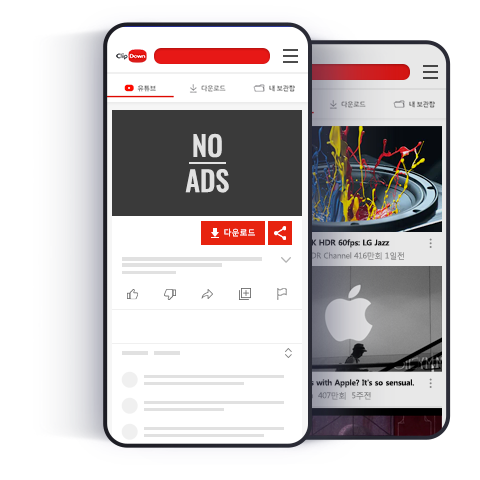
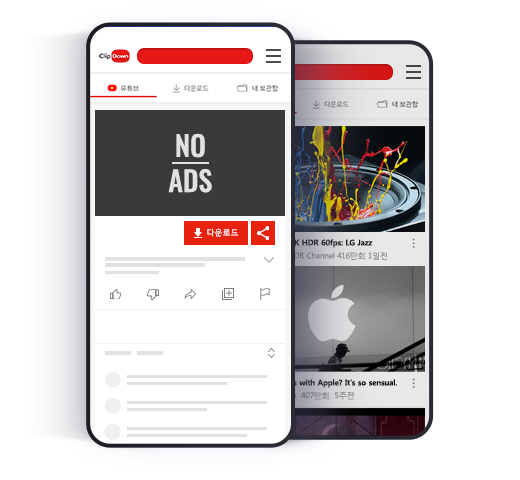
update

diff --git a/Clipdown/2021_Web_clipdown_renewal/resource/css/style.css b/Clipdown/2021_Web_clipdown_renewal/resource/css/style.css
@@ -174,19 +174,22 @@ transform: translateY(-15px);
 @media screen and (max-width: 767px){	
 .left_img, .right_img{width:70% !important; margin:0 auto;}
 .m-btn-box .btn-group .btn{display: block; float: none; width:240px; margin: 20px 0;}
-.m-btn-box{display: block; margin-top: 30px;}
+.m-btn-box{display: block; margin: 40px 0;}
 .header_title{font-size: 30px; font-size: 3.0rem;}
 .content-text{padding-bottom: 20px;}
 .content_info{margin: 50px 0; text-align: center;}
 .content_info .col-2{width:100%;}
 .intro-section, .uselist-section, .services-section, .contact-section, .notice-section{padding-top:75px;}
-.intro-section {height:780px}
-.intro-section .bg_01{width:70%; height: 780px; right: 0;}
+.intro-section {height:830px;}
+.intro-section .bg_01{width:70%; height: 830px; right: 0;}
 .intro-section .header_title{font-size: 40px; font-size: 4.0rem;}
-.intro-section .btn-box{display: none;}
+.intro-section .m_img_main_style, .intro-section .m_main_img{display: block;}
+.intro-section .m_img_main_style{width: 80% !important; margin: 0 auto;}
+.intro-section .m_main_img{margin: 0px auto;}
+.intro-section .img_main_style, .intro-section .btn-box{display: none;}
 .intro-section .header_title, .intro-section .btn-box{text-align: center; padding-left: 0;}
 .intro-section .left_text{padding: 30px 0;}
-.intro-section .m-btn-box .m_btn{margin: 40px 0; }
+
 .services-section .bg_02{top: 140%; left: -1170px;}
 .services-section .left_text, .services-section .right_text{text-align:center; margin: 20px 0; padding: 0;}
 .services-section .contents-mobile .left_img{float: initial;}
@@ -220,13 +223,15 @@ transform: translateY(-15px);
 .content-text{font-size: 13px; font-size: 1.3rem;}
 .btn-lg{min-height: 48px !important; font-size: 18px !important;}
 .btn-md{min-height: 34px !important; font-size: 16px !important; line-height: 1.6; padding: 8px 12px !important;}
+.m-btn-box{margin: 20px 0;}
+.m-btn-box .m_btn{display: block; width: 70%; margin: 20px auto;}
 .left_img, .right_img{width:100% !important;}
 .content_info{margin: 25px 0;}
 .slick-dotted.slick-slider{margin-bottom: 10px;}
-.intro-section, .intro-section .bg_01{height: 700px;}
+.intro-section, .intro-section .bg_01{height: 800px;}
 .intro-section .bg_01{width:100%;}
-.intro-section .m_main_img{width:80% !important; min-width: 260px;}
 .intro-section .header_title{font-size: 32px; font-size: 3.2rem;}
+.intro-section .m_img_main_style{width:100% !important}
 .uselist-section{height: 1400px;}
 .uselist-section .col-4{width: 100%;}
 .uselist-section .item_box{min-height: 240px; margin: 20px auto; box-shadow: -5px -5px 15px #fff, 5px 5px 15px #d7d7d7;}
@@ -237,7 +242,6 @@ transform: translateY(-15px);
 .services-section .left_img, .services-section .right_img{width: 90% !important;}
 .services-section .m-btn-box{margin-top: 10px;}
 .services-section .m-btn-box .btn-group a.btn{display:block; float: none; text-align:center; margin: 0; padding: 10px 0;}
-.services-section .m-btn-box .btn-group .img-fluid{max-width: 200px;}
 .services-section .btn-lg{min-height: 48px !important; font-size: 18px !important; padding: 16px 60px !important;}
 .search-bar .search-form .form-control{font-size: 14px; font-size: 1.4rem;}
 .contact-section .btn{padding: 8px 40px !important;}

diff --git a/Clipdown/2021_Web_clipdown_renewal/index.html b/Clipdown/2021_Web_clipdown_renewal/index.html
@@ -103,10 +103,17 @@
 							</div>
 						</div>
 					</div>
-					<div class="m-btn-box">				
-						<div class="btn-group">				
-							<a class="m_btn" href="#"><img class="img-fluid" src="./resource/images/btn_onestore.png" width="170px" height="50px" alt="onestore"></a>
-							<a class="m_btn" href="#"><img class="img-fluid" src="./resource/images/btn_galaxystore.png" width="170px" height="50px" alt="galaxystore"></a>
+					<div class="right_img m_img_main_style">
+						
+						<div class="main_img m_main_img">
+							<img class="img-fluid" src="./resource/images/img_main_mobile_item.png" alt="">	
+						</div>
+
+						<div class="m-btn-box">				
+							<div class="btn-group">				
+								<a class="m_btn" href="#"><img class="img-fluid" src="./resource/images/btn_onestore.png" width="170px" height="50px" alt="onestore"></a>
+								<a class="m_btn" href="#"><img class="img-fluid" src="./resource/images/btn_galaxystore.png" width="170px" height="50px" alt="galaxystore"></a>
+							</div>
 						</div>
 					</div>
 				</div>
